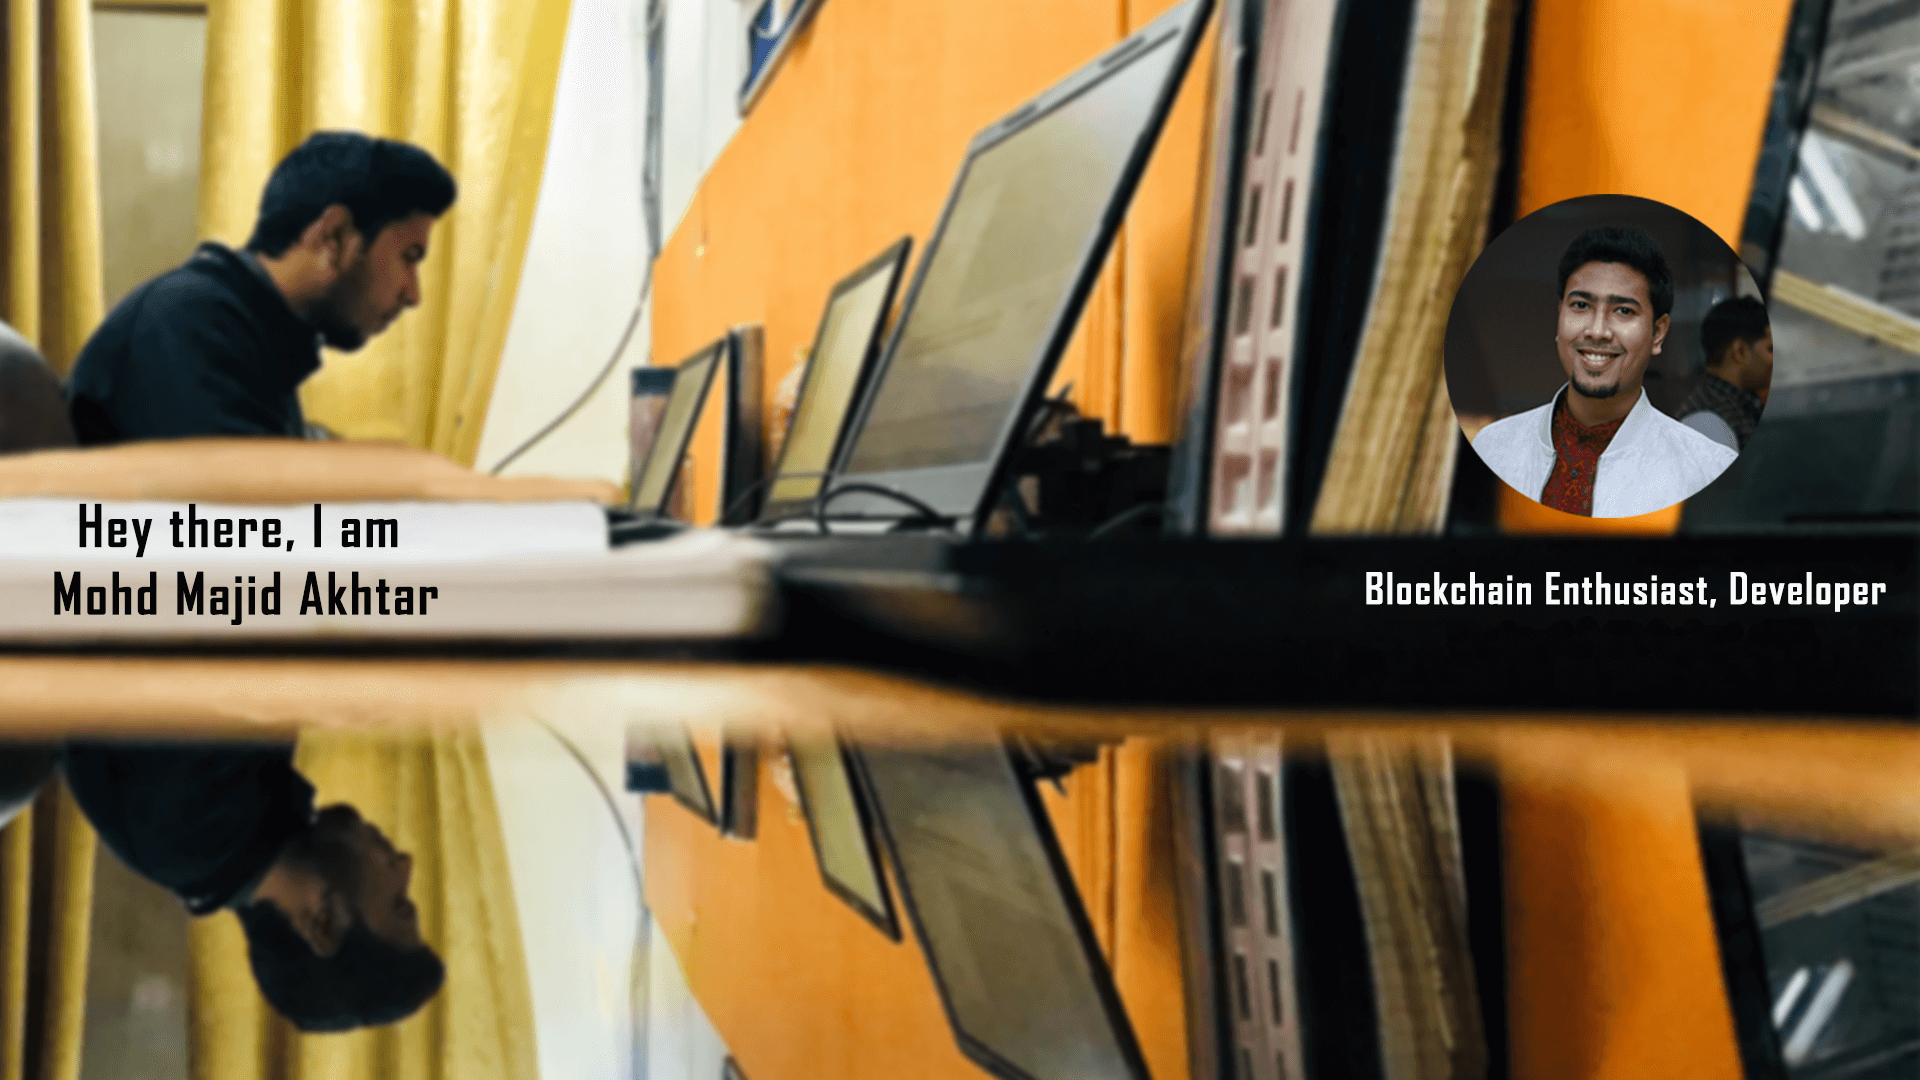
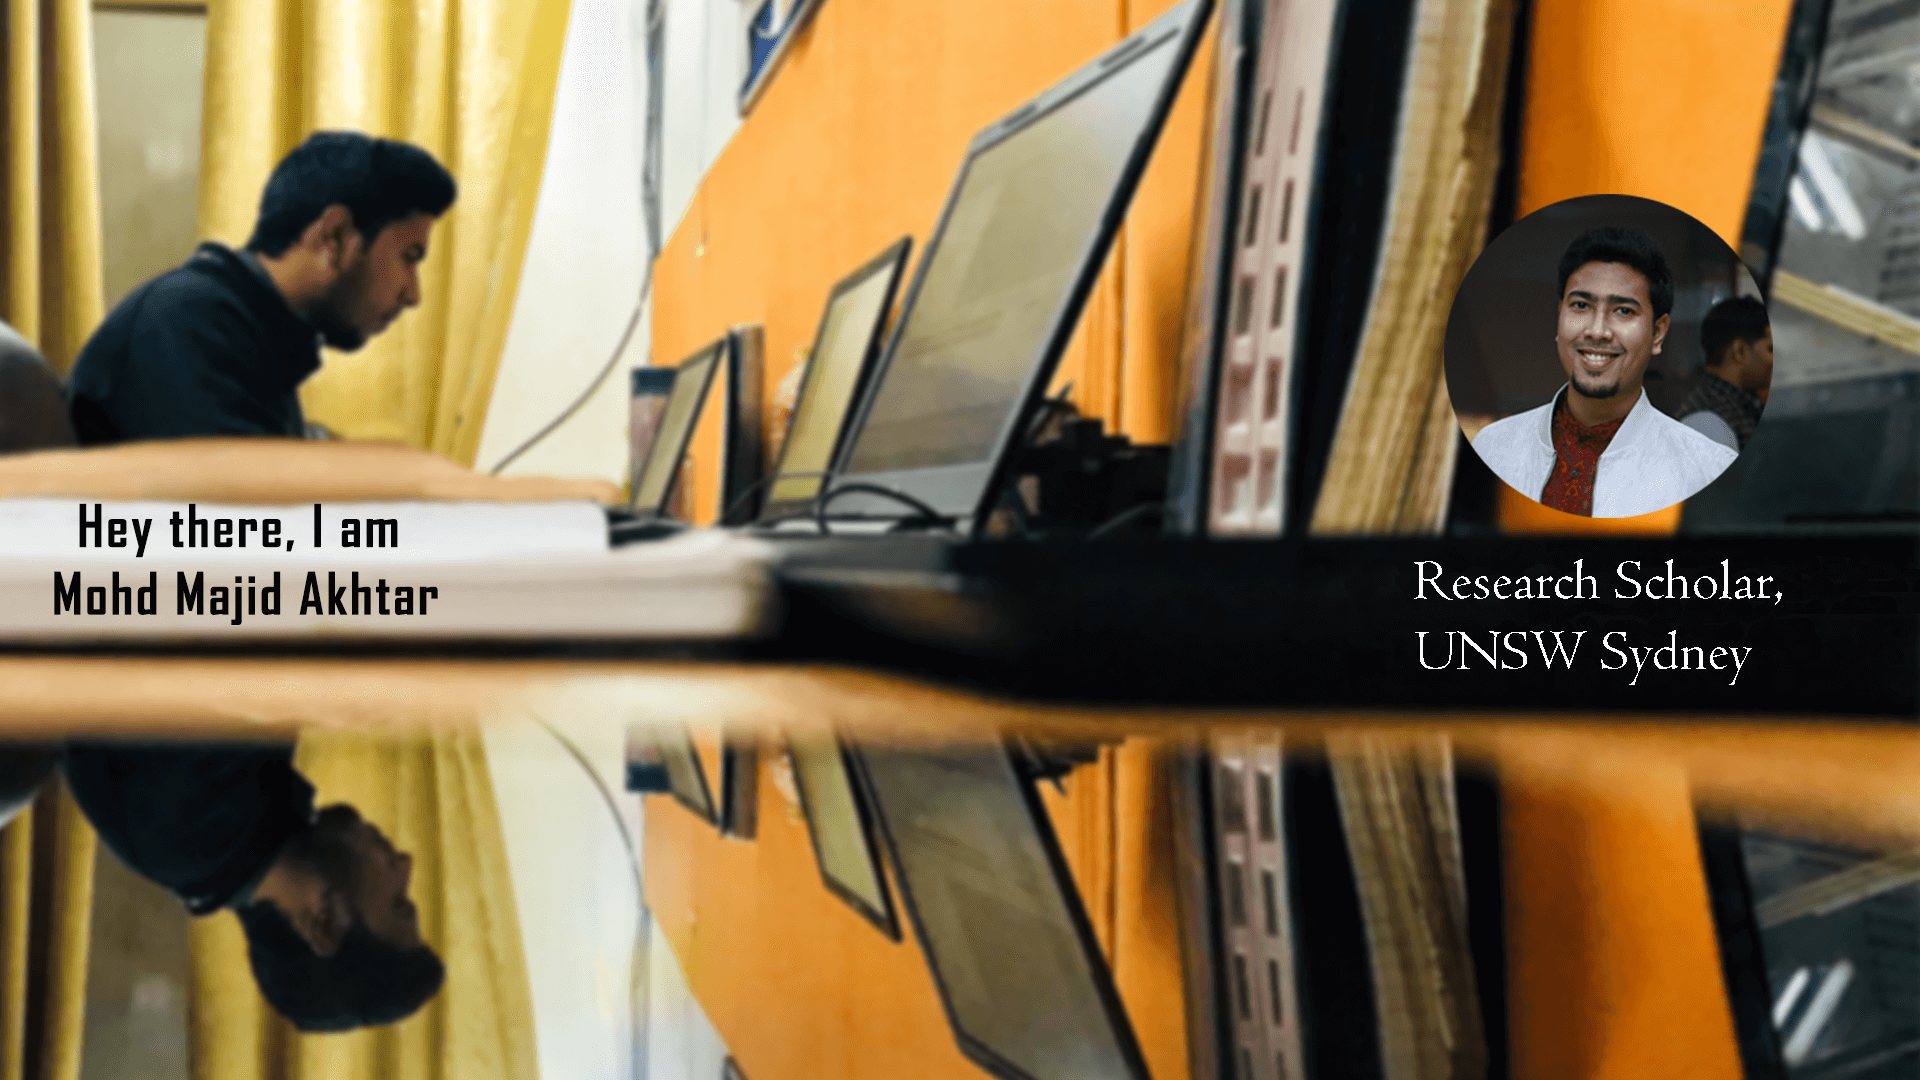
updated

Changed region(s): [[0.6875, 0.5194, 1.0, 0.6417]]

diff --git a/index.html b/index.html
@@ -2,14 +2,14 @@
 <html lang="en">
 <!-- Code Modified By Mohd Majid Akhtar-->
 <!-- NOTICE: This is a modified version of original work of James-QiuHaoran/Final-Year-Project-Website github repository-->
-<!-- Only web content are used for personal use (portfolio) and mothing is related to the actual project/idea of James Qiu -->
+<!-- Only web content are used for personal use (portfolio) and nothing is related to the actual project/idea of James Qiu -->
 <!-- Intial Version_0 Date: 6th May 2020 -->
   <head>
 
     <meta charset="utf-8">
     <meta name="viewport" content="width=device-width, initial-scale=1, shrink-to-fit=no">
-    <meta name="description" content="Mohd Majid Akhtar Portfolio">
-    <meta name="author" content="Mohd Majid Akhtar">
+    <meta name="description" content="Mohammad Majid Akhtar Portfolio">
+    <meta name="author" content="Mohammad Majid Akhtar">
     <script type="text/css">
       .centree {
         margin-left: auto;
@@ -18,7 +18,7 @@
     }
       </script>
 
-    <title>Mohd Majid Akhtar</title>
+    <title>Mohammad Majid Akhtar</title>
 
     <!-- Bootstrap core CSS -->
     <link rel="stylesheet" href="https://maxcdn.bootstrapcdn.com/bootstrap/4.0.0-beta/css/bootstrap.min.css" integrity="sha384-/Y6pD6FV/Vv2HJnA6t+vslU6fwYXjCFtcEpHbNJ0lyAFsXTsjBbfaDjzALeQsN6M" crossorigin="anonymous">
@@ -74,7 +74,7 @@
     <!-- Navigation -->
     <nav class="navbar navbar-expand-lg navbar-light fixed-top" id="mainNav">
       <div class="container">
-        <a class="navbar-brand js-scroll-trigger" href="#page-top">Mohd Majid Akhtar</a>
+        <a class="navbar-brand js-scroll-trigger" href="#page-top">Mohammad Majid Akhtar</a>
         <button class="navbar-toggler navbar-toggler-right" type="button" data-toggle="collapse" data-target="#navbarResponsive" aria-controls="navbarResponsive" aria-expanded="false" aria-label="Toggle navigation">
           <span class="navbar-toggler-icon"></span>
         </button>
@@ -90,13 +90,13 @@
                 <a class="nav-link js-scroll-trigger" href="#publications">Publications</a>
               </li>
             <li class="nav-item">
+                <a class="nav-link js-scroll-trigger" href="#extra_activity">Research-Profiles</a>
+            </li>
+            <li class="nav-item">
               <a class="nav-link js-scroll-trigger" href="#progress">Timeline</a>
             </li>
             <li class="nav-item">
               <a class="nav-link js-scroll-trigger" href="#skills">Skills</a>
-            </li>
-            <li class="nav-item">
-                <a class="nav-link js-scroll-trigger" href="#extra_activity">Extra-Curricular</a>
             </li>
             <li class="nav-item">
                 <a class="nav-link js-scroll-trigger" href="#references">References</a>
@@ -139,26 +139,24 @@
             <hr class="light">
             <p class="text-faded">
               "In the name of Allah, most gracious and most merciful" <br><br>
-              I am Mohd Majid Akhtar, an aspiring professor, who enjoy aspects of research a lot. Teaching is a fantastic experience to 
+              I am Mohammad Majid Akhtar, a second-year Computer Science and Engineering Ph.D. student at UNSW Sydney and an aspiring professor, who enjoy aspects of research a lot. Teaching is a fantastic experience to 
               share and gain knowledge by forming collectively growth. <br><br>
               Everyone needs a little inspiration throughout their career. My inspiration comes from my father Mohd Shahid Akhtar.
               Inspiration is what keeps us motivated and passionate about what we do. 
               I never let my shoulders go down in wreck just because of a simple fact that Benjamin Franklin once said “Tell me and I forget,
                teach me and I may remember, involve me and I learn”. Learning is a way of my living and then applying my knowledge to real 
-               life problem is a way of my paying. <br> <br>
-               In my final year of B. Tech, I started learning about Blockchain on my own. Blockchain is the revolutionary technology behind the bitcoin.
+               life problem is a way of my paying. Below you will find more about me.<br> <br></p>
+               <!-- In my final year of B. Tech, I started learning about Blockchain on my own. Blockchain is the revolutionary technology behind the bitcoin.
                Thinking that trading is related to blockchain I first mastered the trading platform Meta Trader 4 & 5 
               and wrote some scripts in Meta Query Language (MQL). These scripts and program automate the trading process for a person and I worked on the domain of Forex Trading. I learned many strategies all in a span of two month in early 2018 and was confident in building
                some MQL programs on my own. Later I knew the difference between cryptocurrencies and underlying technology Blockchain.
-               I completed many courses from IIT-Delhi eCell, Coursera, Udemy, etc. to gain more & more knowledge around this technology. Below you will find more about me.
-            </p>
-            
+               I completed many courses from IIT-Delhi eCell, Coursera, Udemy, etc. to gain more & more knowledge around this technology. Below you will find more about me. -->
             <!-- <div class="embed-responsive embed-responsive-16by9">
                 <video controls="true" class="embed-responsive-item">
                     <source src="documents/portfolio.mp4" type="video/mp4" />
                   </video>
               </div> -->
-            <br>
+            <!-- <br> -->
             <a class="btn btn-default btn-xl js-scroll-trigger" href="https://github.com/mohdmajidakhtar">Checkout Projects @ Github</a>
           </div>
         </div>
@@ -368,7 +366,7 @@
           <div class="row">
             <div class="col-lg-8 mx-auto text-center">
               <p style="color: white">
-                <h3>Total Citation: 9<span id="citation"></span> </h3>  
+                <h3>Total Citation: 33<span id="citation"></span> </h3>  
                 Source: <a href="https://scholar.google.com/citations?user=s0S12tUAAAAJ&hl=en" style="color: white">Google Scholar</a>
               </p>
     </section>
@@ -722,9 +720,62 @@
               <hr class="primary">
             </div>
           </div>
-        </div>
+        </div><br>
         <div class="container">
           <div class="row">
+            <div class="col  text-center team">
+              <!-- <img class="team-photo" src="img/team/Tanvir Sir.jpg"> -->
+              <h3>Prof. Salil S. Kanhere</h3>
+              <p>Computer Science and Engineering (K17), University of New South Wales, Sydney<br>&#9993; salil.kanhere@unsw.edu.au</p>
+              <div class="team-contact">
+                <ul class="list-inline text-center">
+                  <li class="list-inline-item">
+                    <a href="https://scholar.google.com/citations?user=sgqmaPMAAAAJ">
+                      <span class="fa-stack fa-lg">
+                        <i class="fa fa-circle fa-stack-2x"></i>
+                        <i class="fas fa-user-circle fa-stack-1x fa-inverse"></i>
+                      </span>
+                    </a>
+                  </li>
+                  <!-- <li class="list-inline-item">
+                    <a href="https://in.linkedin.com/in/dr-tanvir-ahmad-30b3b262">
+                      <span class="fa-stack fa-lg">
+                          <i class="fa fa-circle fa-stack-2x"></i>
+                          <i class="fab fa-linkedin fa-stack-1x fa-inverse"></i>
+                      </span>
+                    </a>
+                  </li> -->
+                </ul>
+              </div><br>
+          </div>
+            <div class="col  text-center team">
+              <!-- <img class="team-photo" src="img/team/Tanvir Sir.jpg"> -->
+              <h3>Dr. Rahat Masood</h3>
+              <p>Computer Science and Engineering (K17), University of New South Wales, Sydney<br>&#9993; rahat.masood@unsw.edu.au</p>
+              <div class="team-contact">
+                <ul class="list-inline text-center">
+                  <li class="list-inline-item">
+                    <a href="https://scholar.google.com.au/citations?user=8O-1MLYAAAAJ&hl=en&oi=ao">
+                      <span class="fa-stack fa-lg">
+                        <i class="fa fa-circle fa-stack-2x"></i>
+                        <i class="fas fa-user-circle fa-stack-1x fa-inverse"></i>
+                      </span>
+                    </a>
+                  </li>
+                  <!-- <li class="list-inline-item">
+                    <a href="https://in.linkedin.com/in/dr-tanvir-ahmad-30b3b262">
+                      <span class="fa-stack fa-lg">
+                          <i class="fa fa-circle fa-stack-2x"></i>
+                          <i class="fab fa-linkedin fa-stack-1x fa-inverse"></i>
+                      </span>
+                    </a>
+                  </li> -->
+                </ul>
+              </div><br>
+          </div>
+          </div></div>
+          <div class="container">
+            <div class="row">
             <div class="col-md-4  text-center team">
                 <img class="team-photo" src="img/team/Tanvir Sir.jpg">
                 <h3>Dr. Tanvir Ahmad</h3>
@@ -818,7 +869,7 @@
         <div class="row">
           <div class="col-md-4  text-center team">
               <h3>&#9929;</h3>
-              <p>Room 210 / 2nd Floor, Dept. of Computer Engineering, Jamia Millia Islamia, New Delhi</p>
+              <p>410-14 / Level 4, School of Computer Science and Engineering, University of New South Wales, Sydney, Australia</p>
               <br/>
           </div>
           <div class="col-md-4  text-center team">
@@ -865,7 +916,7 @@
           </div>
           <div class="col-md-4  text-center team">
               <h3>&#9993;</h3>
-              <p> akhtarmajid273@gmail.com (primary) <br> mohd187209@st.jmi.ac.in</p>
+              <p> akhtarmajid273@gmail.com (primary) <br>majid.akhtar@unsw.edu.au<br> mohd187209@st.jmi.ac.in</p>
               <br/>
           </div>
 
